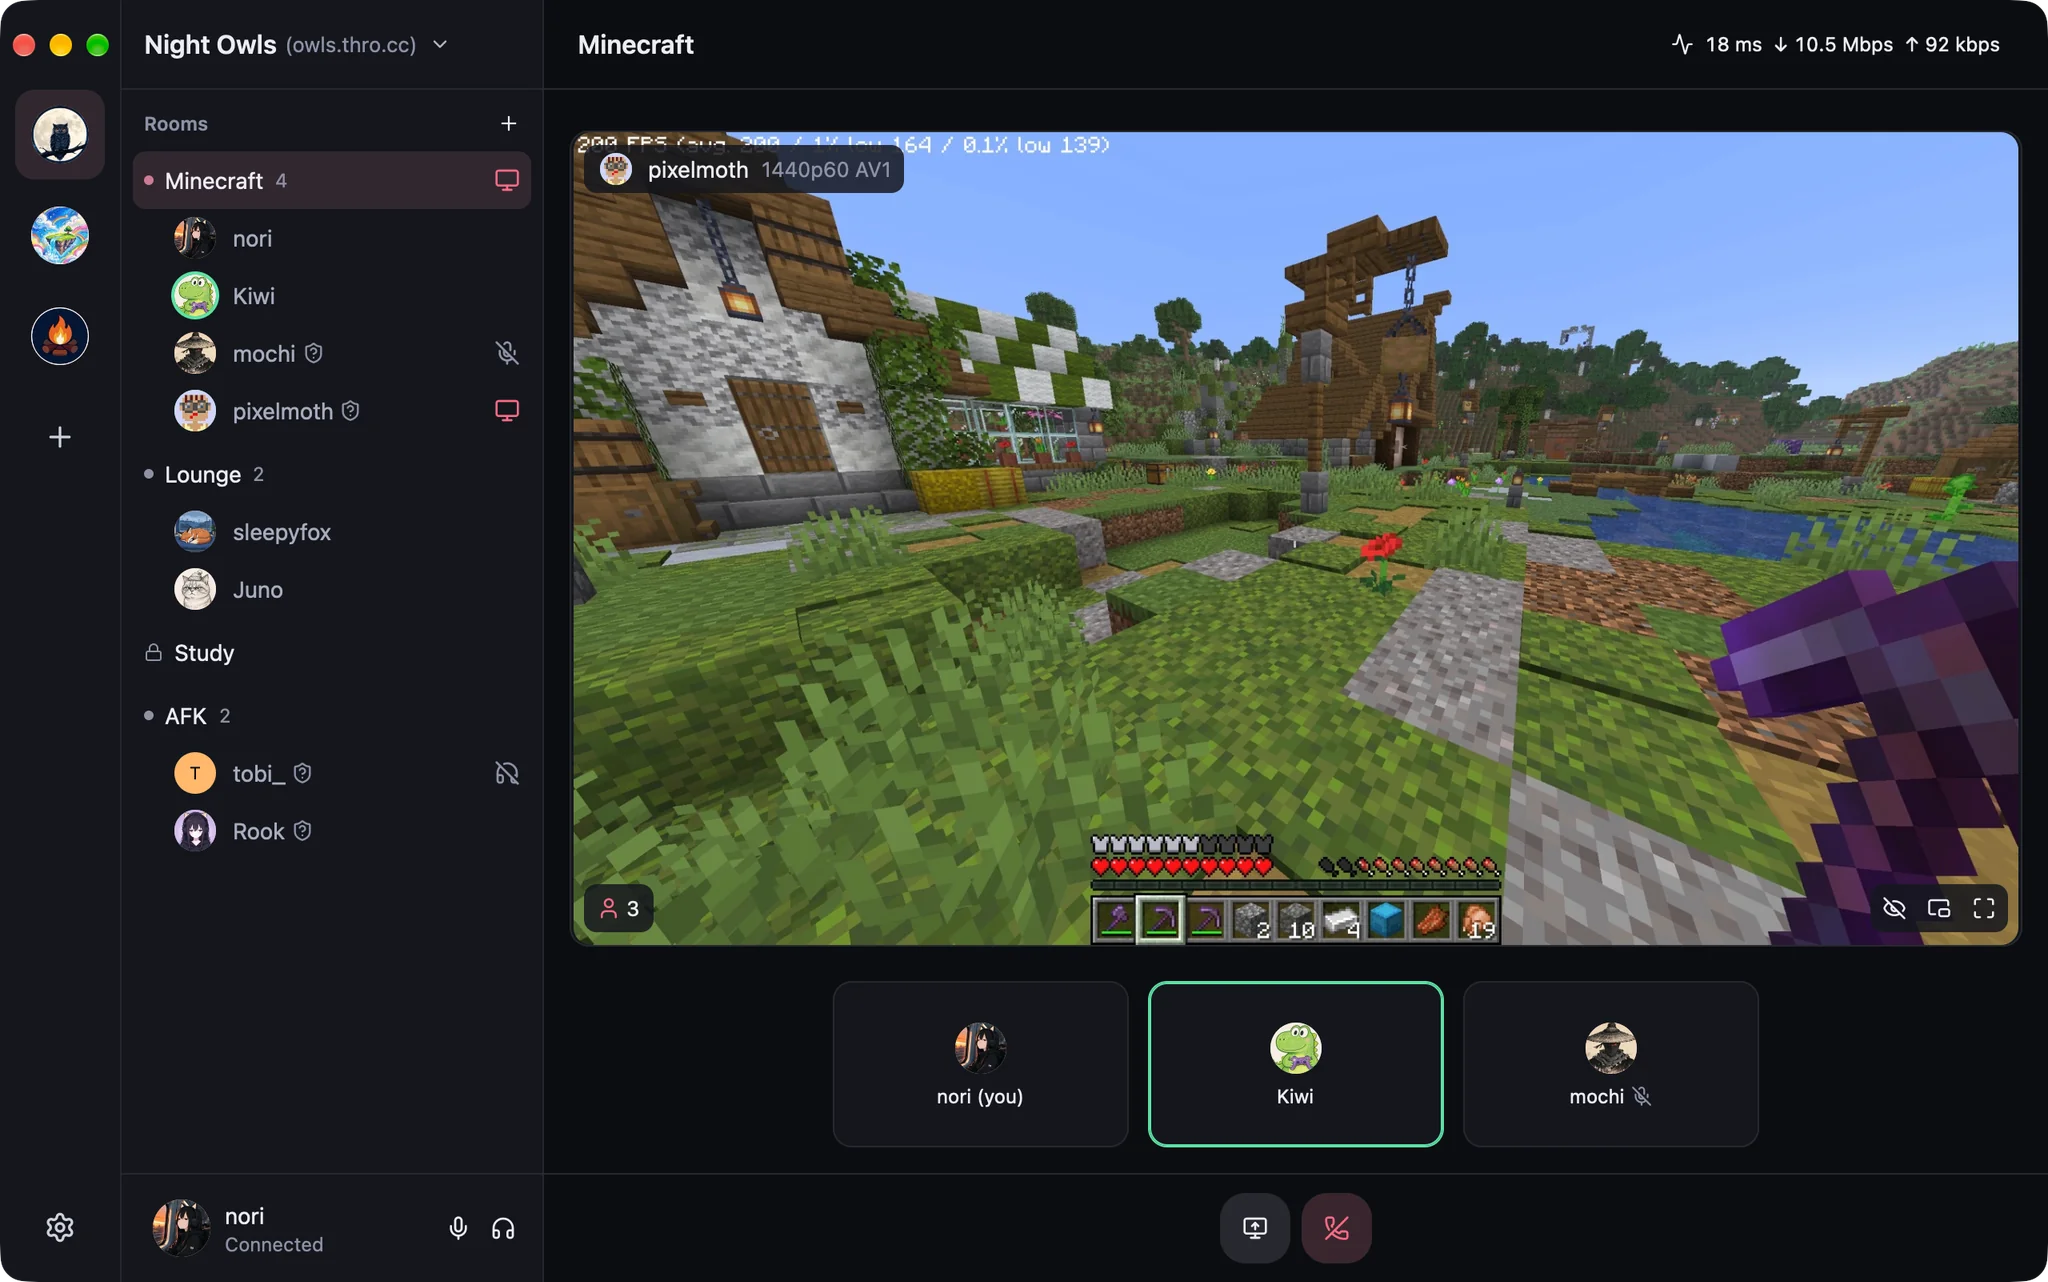
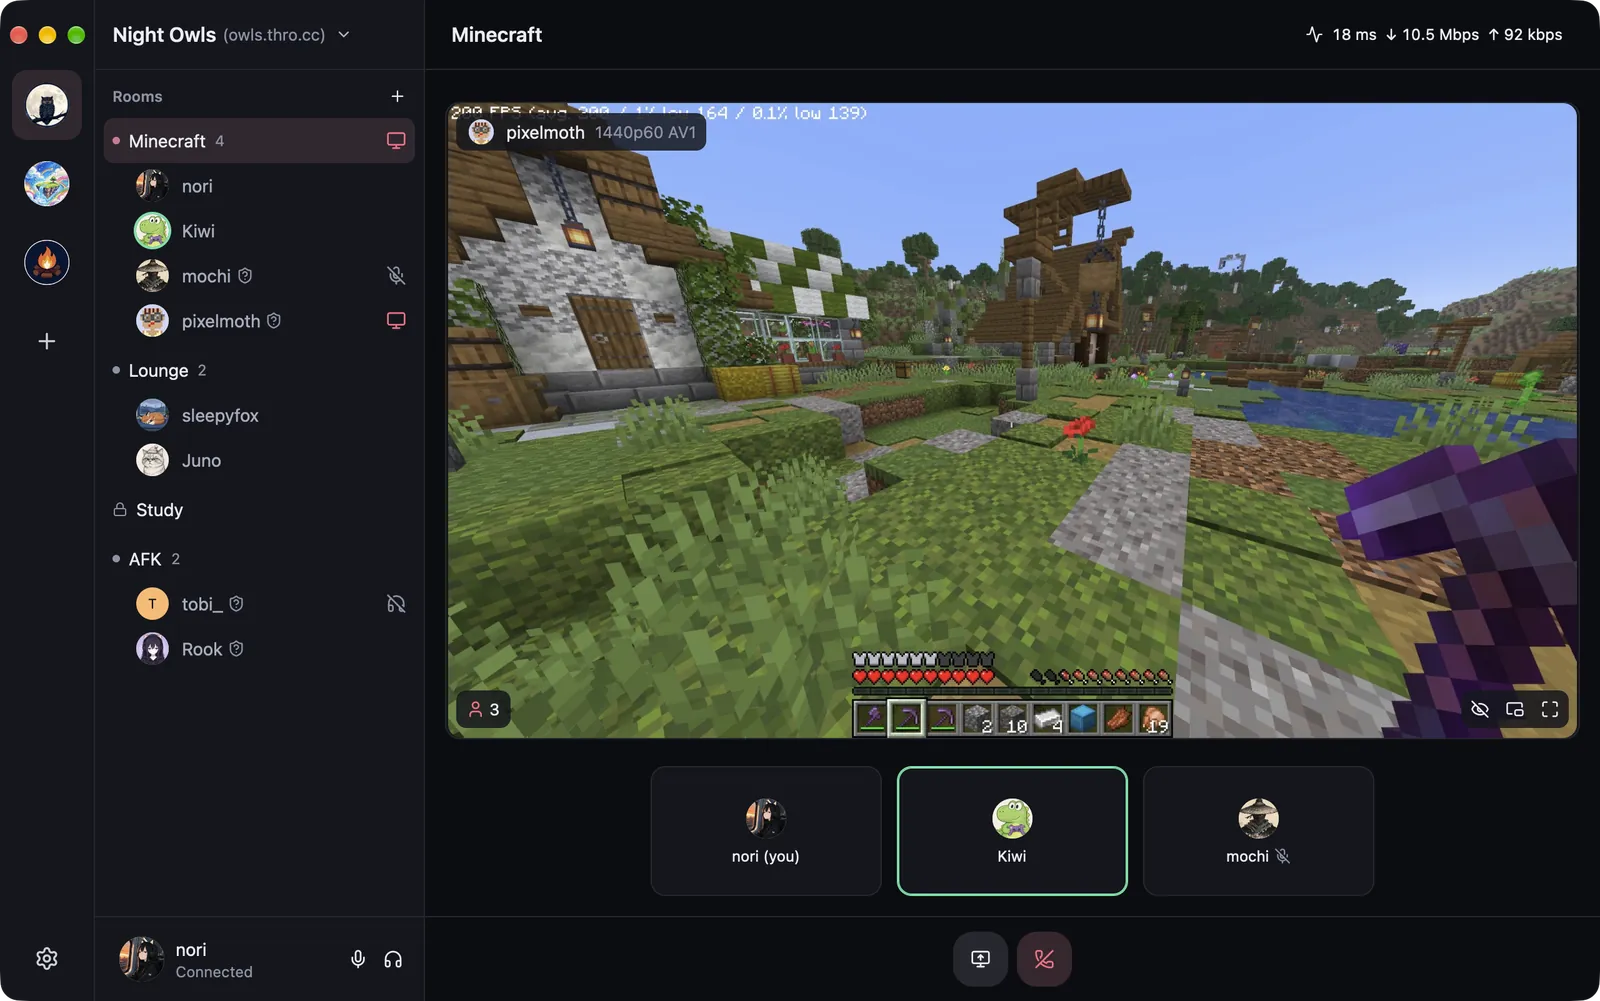
perf: shrink the screenshots

diff --git a/public/index.html b/public/index.html
@@ -55,8 +55,8 @@
         <img
           src="/images/focus.webp"
           alt="Watching a Minecraft screen share in a throcc room"
-          width="2048"
-          height="1282"
+          width="1600"
+          height="1001"
           decoding="async"
           class="screenshot"
         />
@@ -76,8 +76,8 @@
             <img
               src="/images/room.webp"
               alt="A throcc room with four people in tiles and a screen share playing"
-              width="1024"
-              height="641"
+              width="896"
+              height="561"
               loading="lazy"
               decoding="async"
               class="screenshot"
@@ -94,8 +94,8 @@
               <img
                 src="/images/share.webp"
                 alt="The Share Your Screen dialog with resolution, frame rate, bitrate and computer audio options"
-                width="1024"
-                height="641"
+                width="896"
+                height="561"
                 loading="lazy"
                 decoding="async"
                 class="screenshot"
@@ -117,8 +117,8 @@
             <img
               src="/images/verify.webp"
               alt="The safety number for pixelmoth, with a button to mark them as verified"
-              width="1024"
-              height="641"
+              width="896"
+              height="561"
               loading="lazy"
               decoding="async"
               class="screenshot"
